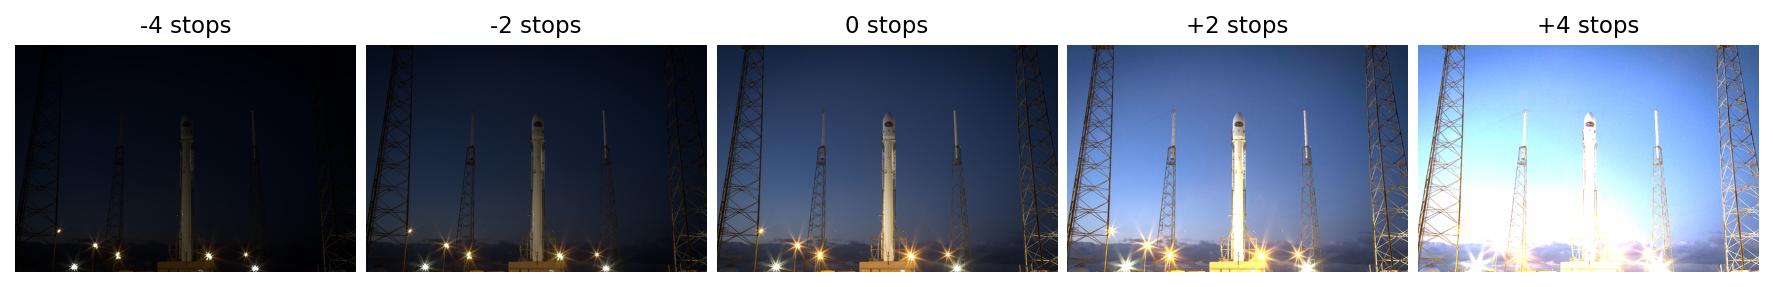
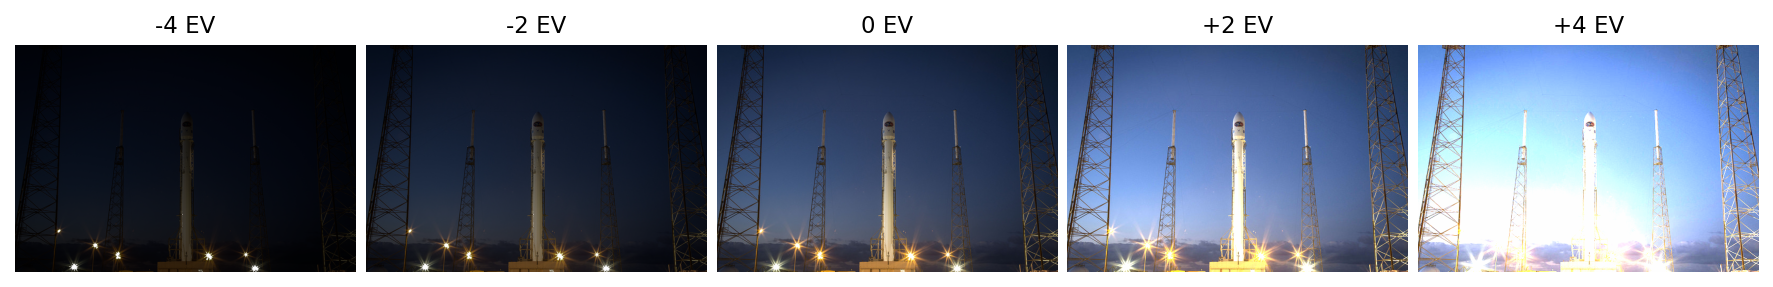
Lesson 6: fix stops terminology, the gamut sentence and Czech wording
Stops are expoziční stupně (EV), not clonová čísla. The per-channel curve
sends blue to cyan, as the gamut diagram shows. OKLab is declined, other
lessons are named by topic, the key is reset after the experiment, and the
reduce diagram counts threads in correct Czech.

diff --git a/build/lesson_06_notebook.py b/build/lesson_06_notebook.py
@@ -137,7 +137,7 @@ BRIGHT_X = f"""\
 uniform float sigma: hint_range(1, 16) = {SIGMA}
 
 
-# Lesson 3's first pass, without the sRGB conversions: the layer is linear light already.
+# The convolution lesson's first pass, without the sRGB conversions: the layer is linear light already.
 def pixel(ivec2 at) -> vec4:
     int r = int(ceil(3.0 * sigma))
     vec3 total = vec3(0.0)
@@ -302,7 +302,7 @@ def gaussian_1d(sigma):
 
 
 def blur(a, sigma):
-    """a, (h, w, c), blurred by a Gaussian of sigma pixels, rows then columns, edges clamped (lesson 3)."""
+    """a, (h, w, c), blurred by a Gaussian of sigma pixels, rows then columns, edges clamped (the convolution lesson)."""
     k = gaussian_1d(sigma)
     r = len(k) // 2
     h, w = a.shape[:2]
@@ -384,7 +384,7 @@ def answer(snippet, lang="python"):
 md(r"""
 # Lekce 6 (bonus): HDR, záře a tone mapping
 
-Fotka ze skutečného světa má světla, která jsou stokrát jasnější než obloha, a obrazovka umí ukázat jen rozsah od 0 do 1. Hry a fotoaparáty proto počítají ve vysokém dynamickém rozsahu (*high dynamic range*, HDR) a teprve na konci světlo stlačí do obrazovky. V této lekci to postavíte celé: expozici, tónovou křivku, automatickou expozici z průměru celého obrázku spočítaného na GPU, záři kolem světel (*bloom*) a stlačení sytých barev v OKLab.
+Fotka ze skutečného světa má světla, která jsou stokrát jasnější než obloha, a obrazovka umí ukázat jen rozsah od 0 do 1. Hry a fotoaparáty proto počítají ve vysokém dynamickém rozsahu (*high dynamic range*, HDR) a teprve na konci světlo stlačí do obrazovky. V této lekci to postavíte celé: expozici, tónovou křivku, automatickou expozici z průměru celého obrázku spočítaného na GPU, záři kolem světel (*bloom*) a stlačení sytých barev v OKLabu.
 
 Lekce je bonusová a na samostudium. Spusťte buňku. Otevře v Sáře dokument s plátnem 640 × 427 a do vrstvy `HDR` zapíše fotku rakety na rampě v lineárním světle, s lampami až stokrát jasnějšími než bílá.
 """)
@@ -422,9 +422,8 @@ Funkce z úvodní lekce shrnuje její příloha. Sloupec Sekce říká, kde se f
 
 | Volání | Co dělá | Sekce |
 |---|---|---|
-| `doc.new_layer(jméno, pole)` | nová vrstva s danými pixely | 0 |
 | `doc.door.verdict({"reduce": ...})` | součet, průměr, minimum a maximum vrstvy, spočítané na GPU | 2 |
-| `np.load("....npz")["rgb"]` | pole uložené v souboru NumPy | 0 |
+| `np.load("....npz")["rgb"]` | pole uložené v souboru NumPy | úvod |
 """)
 
 md(r"""
@@ -439,13 +438,13 @@ code(GOAL, hidden=True)
 md(r"""
 ## 1. Expozice a tónová křivka
 
-Fotoaparát světlo nejdřív vynásobí **expozicí**, a ta se měří v **clonových číslech** (*stops*): o jedno víc je dvakrát víc světla. Pak ho musí dostat do rozsahu obrazovky. Nejjednodušší je oříznout všechno nad 1. Posuňte `stops` v kernelu níže a podívejte se, co ořezání dělá s lampami a co s oblohou.
+Fotoaparát světlo nejdřív vynásobí **expozicí**, a ta se měří v **expozičních stupních** (EV, *stops*): o jeden stupeň víc je dvakrát víc světla. Pak ho musí dostat do rozsahu obrazovky. Nejjednodušší je oříznout všechno nad 1. Posuňte `stops` v kernelu níže a podívejte se, co ořezání dělá s lampami a co s oblohou.
 
-@img(exposure_strip.png, 900, Fotka rakety při expozici od minus čtyř do plus čtyř clonových čísel, oříznutá na rozsah obrazovky)
+@img(exposure_strip.png, 900, Fotka rakety při expozici od minus čtyř do plus čtyř expozičních stupňů, oříznutá na rozsah obrazovky)
 
-Při žádné expozici není vidět obloha a lampy zároveň. Rozsah fotky, od nejtmavšího pixelu po nejjasnější, je asi dvacet clonových čísel, obrazovka jich ukáže asi osm.
+Při žádné expozici není vidět obloha a lampy zároveň. Rozsah fotky, od nejtmavšího pixelu po nejjasnější, je asi dvacet expozičních stupňů, obrazovka jich ukáže asi osm.
 
-@img(dynamic_range.png, 900, Histogram logaritmu jasu pixelů fotky, asi dvacet clonových čísel, s vyznačeným rozsahem, který ukáže obrazovka)
+@img(dynamic_range.png, 900, Histogram logaritmu jasu pixelů fotky, asi dvacet expozičních stupňů, s vyznačeným rozsahem, který ukáže obrazovka)
 """)
 
 code(EXPOSURE)
@@ -481,7 +480,7 @@ code(TONE, solve=[(TONE_STUB, SOLUTION_TONE)])
 md(r"""
 ### ✅ Kontrola
 
-Pomocné funkce obsahují převody z lekce o barevných prostorech, jas `luminance` a rozmazání `blur` z lekce 3. Kontrola porovná vrstvu `Tone` s křivkou ACES v NumPy, s `stops` na 0.
+Pomocné funkce obsahují převody z lekce o barevných prostorech, jas `luminance` a rozmazání `blur` z lekce o konvoluci. Kontrola porovná vrstvu `Tone` s křivkou ACES v NumPy, s `stops` na 0.
 """)
 
 code(HELPERS_NP)
@@ -507,17 +506,17 @@ Tmavá scéna potřebuje víc světla než slunečná, jinak je celá černá, a
 md(r"""
 ## 2. Automatická expozice a redukce na GPU
 
-Expozice má posunout „typický“ jas scény na středně šedou, **klíč** (*key*) kolem 0.18. Typický jas ale není aritmetický průměr: jedna lampa sto jasů posune průměr víc než celá obloha. Reinhard proto bere průměr **logaritmů**, tedy geometrický průměr:
+Expozice má posunout „typický“ jas scény na středně šedou, **klíč** (*key*) kolem 0.18. Typický jas ale není aritmetický průměr: jedna lampa se stonásobným jasem posune průměr víc než celá obloha. Reinhard proto bere průměr **logaritmů**, tedy geometrický průměr:
 
 $$\bar L = \exp\Big(\frac{1}{n} \sum \log(\delta + Y)\Big), \qquad \text{expozice} = \frac{\text{klíč}}{\bar L}$$
 
-Malé $\delta$ zabrání logaritmu nuly. Na logaritmické ose má každé clonové číslo stejnou váhu.
+Malé $\delta$ zabrání logaritmu nuly. Na logaritmické ose má každý expoziční stupeň stejnou váhu.
 
 Průměr celého obrázku je **redukce**: z milionu čísel jedno. Jedno vlákno by sčítalo pixel po pixelu. GPU sčítá ve stromu: každé vlákno sečte dvojici, pak dvojice součtů, a po $\log_2 n$ krocích zbude jedno číslo. Sára to umí jako krok `reduce`, který vrátí součet, průměr, minimum a maximum každého kanálu vrstvy.
 
 @img(reduce.png, 860, Strom sčítání šestnácti čísel ve čtyřech krocích, v každém kroku polovina vláken sečte dvojici)
 
-Redukce umí jen čísla, která se sčítají v libovolném pořadí. Histogram by potřeboval, aby vlákna zapisovala do společných přihrádek (*atomics*), a ten buňka zatím nemá.
+Redukce umí jen čísla, která se sčítají v libovolném pořadí. Histogram by potřeboval, aby vlákna zapisovala do společných přihrádek (*atomics*), a ty buňka `%%gmacs` zatím nenabízí.
 
 ### 🎯 Úkol 2: logaritmus jasu
 
@@ -551,7 +550,7 @@ print(f"mean log luminance {{mean_log:.4f}}, exposure {{exposure:.3f}}, {{np.log
 md(r"""
 ### ✅ Kontrola
 
-Průměr spočítaný na GPU porovnáme s NumPy. Vrstva drží čísla s polovinou přesnosti (*half float*), takže se shodují asi na tři místa.
+Průměr spočítaný na GPU porovnáme s NumPy. Vrstva drží čísla v poloviční přesnosti (*half float*), takže se shodují asi na tři místa.
 """)
 
 code("""
@@ -568,11 +567,11 @@ code(AUTO)
 
 md(r"""
 > **❓ Otázka**
-> Zkuste klíč 0.18, 0.12 a 0.05 a buňky spusťte znovu. Proč by hra měnila expozici postupně, snímek po snímku, a ne hned?
+> Zkuste klíč 0.18, 0.12 a 0.05 a buňky spusťte znovu, a nakonec klíč vraťte na 0.12. Proč by hra měnila expozici postupně, snímek po snímku, a ne hned?
 
 <details><summary>🔑 Odpověď</summary>
 
-Klíč říká, jak světlá má scéna vypadat: 0.18 je den, 0.05 noc. Kdyby se expozice měnila okamžitě, obraz by při každém záblesku nebo otočení kamery ke světlu blikal. Hry proto expozici k cíli posouvají pomalu, jako oko, které si na tmu zvyká několik sekund. Tomu se říká přizpůsobení oka (*eye adaptation*).
+Klíč říká, jak světlá má scéna vypadat: 0.18 je den, 0.05 noc. Kdyby se expozice měnila okamžitě, obraz by při každém záblesku nebo otočení kamery ke světlu blikal. Hry proto expozici k cíli posouvají pomalu, jako oko, které si na tmu zvyká postupně, zornice za pár sekund, sítnice i desítky minut. Tomu se říká přizpůsobení oka (*eye adaptation*).
 </details>
 """)
 
@@ -580,11 +579,11 @@ Klíč říká, jak světlá má scéna vypadat: 0.18 je den, 0.05 noc. Kdyby se
 md(r"""
 ## 3. Záře
 
-Silné světlo se v objektivu i v oku rozptýlí a kolem lampy vznikne záře. Hry ji napodobí třemi průchody: vyberou jen světlo nad prahem, rozmažou ho a přičtou k obrázku **před** tónovou křivkou, dokud je to ještě světlo, ne barva obrazovky.
+Silné světlo se v objektivu i v oku rozptýlí a kolem lampy vznikne záře. Hry ji napodobí třemi kroky: vyberou jen světlo nad prahem, rozmažou ho a přičtou k obrázku **před** tónovou křivkou, dokud je to ještě světlo, ne barva obrazovky.
 
 @img(bloom_steps.png, 900, Obrázek s tónovou křivkou, světlo nad prahem, jeho rozmazání a obrázek se září)
 
-Výběr světla a dva průchody rozmazání z lekce 3 jsou hotové. Rozmazání je bez převodů ze sRGB, protože vrstva drží lineární světlo.
+Výběr světla a dva průchody rozmazání z lekce o konvoluci jsou hotové. Rozmazání je bez převodů ze sRGB, protože vrstva drží lineární světlo.
 """)
 
 code(BRIGHT)
@@ -627,19 +626,19 @@ Po tónové křivce jsou lampy i bílá raketa stejně bílé, 1, a práh by je 
 
 # --- 4. Gamut ---------------------------------------------------------------------
 md(r"""
-## 4. Syté barvy v OKLab
+## 4. Syté barvy v OKLabu
 
-Křivka po složkách stlačí každý kanál zvlášť. Sytá oranžová lampa má červenou složku mnohem větší než modrou, a křivka červenou stlačí víc. Barva se proto s rostoucím jasem posouvá ke žluté a nakonec k bílé, a modré světlo k fialové. Hráči tomu říkají „notorious six“: při velkém jasu zbude jen šest barev, tři základní a tři doplňkové.
+Křivka po složkách stlačí každý kanál zvlášť. Sytá oranžová lampa má červenou složku mnohem větší než modrou, a křivka červenou stlačí víc. Barva se proto s rostoucím jasem posouvá ke žluté, modrá k azurové, a kde je třetí složka nulová, tam už zůstane. Vývojáři a koloristé tomu říkají „notorious six“: při velkém jasu zbude jen šest barev, tři základní a tři doplňkové.
 
-Druhá možnost je stlačit jen **jas** a barvu vynásobit stejným poměrem. Odstín zůstane, ale jasná sytá barva skončí mimo krychli 0 až 1, kterou obrazovka umí (mimo **gamut**). Ořezání kanálů odstín zase posune. Správně je zachovat v OKLab světlost a odstín a ubrat **sytost** (*chroma*), dokud se barva do krychle nevejde.
+Druhá možnost je stlačit jen **jas** a barvu vynásobit stejným poměrem. Odstín zůstane, ale jasná sytá barva skončí mimo krychli 0 až 1, kterou obrazovka umí (mimo **gamut**). Ořezání kanálů odstín zase posune. Správně je zachovat v OKLabu světlost a odstín a ubrat **sytost** (*chroma*), dokud se barva do krychle nevejde.
 
-@img(gamut.png, 900, Pruh sytých barev s rostoucí expozicí ve třech podáních: křivka po složkách, jas s ořezáním a jas se stlačením sytosti v OKLab)
+@img(gamut.png, 900, Pruh sytých barev s rostoucí expozicí ve třech podáních: křivka po složkách, jas s ořezáním a jas se stlačením sytosti v OKLabu)
 
 Největší sytost, která se vejde, se najde **půlením intervalu** (*bisection*): podíl sytosti od 0 do 1, a v každém kroku se interval zkrátí na polovinu, podle toho, zda je barva uvnitř. Po 16 krocích je podíl přesný na $2^{-16}$.
 
 ### 🎯 Úkol 4: stlačení do gamutu
 
-Doplňte `fit`. Barvu, která je uvnitř, vraťte beze změny. Jinak ji převeďte do OKLab, světlost ořízněte na 1 a půlením najděte největší podíl sytosti `ab`, při kterém je barva uvnitř. Funkce `inside` je hotová. Nedokončená funkce ořezává, jako volba `Clip`.
+Doplňte `fit`. Barvu, která je uvnitř, vraťte beze změny. Jinak ji převeďte do OKLabu, světlost ořízněte na 1 a půlením najděte největší podíl sytosti `ab`, při kterém je barva uvnitř. Funkce `inside` je hotová. Nedokončená funkce ořezává, jako volba `Clip`.
 
 <details><summary>💡 Nápověda</summary>
 
@@ -688,7 +687,7 @@ Přepněte `mode` a porovnejte lampy a oranžový lem u rampy. Rozdíl je jemný
 
 <details><summary>🔑 Odpověď</summary>
 
-Světlost je to, co tónová křivka nastavila, a změna by udělala z jasné lampy tmavší. Odstín je to, co oko pozná nejdřív, a jeho změna je vidět jako jiná barva. Sytost se mění nejméně nápadně: velmi jasná barva i ve skutečnosti vypadá bledší, protože oko se jí přizpůsobí. Proto jasná světla v obrázku přecházejí do bílé, a s OKLab plynule a bez změny odstínu.
+Světlost je to, co tónová křivka nastavila, a změna by udělala z jasné lampy tmavší. Odstín je to, co oko pozná nejdřív, a jeho změna je vidět jako jiná barva. Sytost se mění nejméně nápadně: velmi jasná barva i ve skutečnosti vypadá bledší, protože oko se jí přizpůsobí. Proto jasná světla v obrázku přecházejí do bílé, a s OKLabem plynule a bez změny odstínu.
 </details>
 """)
 
@@ -770,26 +769,26 @@ Vložte filtr do `pga_filter/effect.py` s `TITLE = "Tonemapper"`. Tonemapper pot
 md(r"""
 ## Shrnutí
 
-- Světlo ve scéně má rozsah i dvacet clonových čísel, obrazovka asi osm. Výpočet probíhá v lineárním světle bez omezení a do obrazovky se světlo stlačí až na konci.
+- Světlo ve scéně má rozsah i dvacet expozičních stupňů, obrazovka asi osm. Výpočet probíhá v lineárním světle bez omezení a do obrazovky se světlo stlačí až na konci.
 - Tónová křivka stlačí jasné plynule. Reinhard je nejjednodušší, ACES má tvar S a filmový vzhled.
 - Automatická expozice posune geometrický průměr jasu na klíč. Průměr celého obrázku je redukce, kterou GPU sčítá ve stromu.
-- Hodnota z Pythonu se do kernelu dostane jako parametr, i dosazením do prvního řádku buňky.
+- Hodnota z Pythonu se do kernelu dostane jako parametr, dosazením `{proměnná}` do prvního řádku buňky.
 - Záře je světlo nad prahem, rozmazané a přičtené před tónovou křivkou.
-- Křivka po složkách posouvá odstín jasných barev. Stlačení jasu a pak sytosti v OKLab odstín zachová.
+- Křivka po složkách posouvá odstín jasných barev. Stlačení jasu a pak sytosti v OKLabu odstín zachová.
 
 ### Co jsme vynechali
 
 - **Histogram a percentily.** Expozice podle histogramu ignoruje nejtmavší a nejjasnější procenta pixelů. Histogram na GPU potřebuje atomické zápisy do přihrádek.
 - **Lokální tone mapping.** Expozice, která se mění místo od místa, jako „HDR fotky“ z mobilu. Bez opatrnosti dělá kolem hran svatozáře.
 - **Pyramida záře.** Hry zmenšují obrázek několikrát na polovinu, rozmazávají malé verze a skládají je zpět. Je to rychlejší než velké jádro a záře má dlouhý měkký ocas.
-- **Moderní křivky.** AgX a Khronos PBR Neutral řeší posun odstínu přímo v křivce. Blender a Godot je mají jako volbu.
-- **HDR obrazovky.** Obrazovka s jasem přes 1000 nitů ukáže víc než 1, a tonemapper pak stlačuje jen to, co se nevejde ani jí.
+- **Moderní křivky.** AgX a Khronos PBR Neutral řeší posun odstínu přímo v křivce. Blender má obě, Godot zatím jen AgX.
+- **HDR obrazovky.** Obrazovka s jasem přes 1000 nitů ukáže víc než 1, a tonemapper pak stlačuje jen to, co se nevejde ani do ní.
 
 ### Bonusové úkoly
 
 1. **Postupná adaptace.** V NumPy spočítejte expozici pro sérii snímků se změnou jasu a posouvejte ji k cíli o pár procent na snímek.
 2. **Histogram.** Spočítejte v NumPy histogram logaritmu jasu a expozici podle mediánu místo průměru. Jak se liší?
-3. **Barevná záře.** Obarvěte záři podle posuvníku `source_color`, nebo ji zesilte jen v jednom kanálu, jako u starých objektivů.
+3. **Barevná záře.** Obarvěte záři barvou z výběru `source_color`, převedenou do lineárního světla, nebo ji zesilte jen v jednom kanálu, jako u starých objektivů.
 4. **AgX.** Najděte popis křivky AgX a napište ji jako čtvrtou volbu `curve`.
 """)
 

diff --git a/build/lesson_06_diagrams.py b/build/lesson_06_diagrams.py
@@ -69,7 +69,7 @@ def exposure_strip(hdr):
     fig, axes = plt.subplots(1, 5, figsize=(15, 2.3), gridspec_kw={"wspace": 0.03})
     for ax, stops in zip(axes, (-4, -2, 0, 2, 4)):
         ax.imshow(linear_to_srgb(np.clip(hdr * 2.0 ** stops, 0, 1)))
-        ax.set_title(f"{stops:+d} stops" if stops else "0 stops", fontsize=11)
+        ax.set_title(f"{stops:+d} EV" if stops else "0 EV", fontsize=11)
         bare(ax)
     save(fig, "exposure_strip.png")
 
@@ -83,11 +83,11 @@ def dynamic_range(hdr):
     ax.set_yscale("log")
     ax.axvspan(-8, 0, color=ORANGE, alpha=0.12)
     ax.set_ylim(0.6, 2e6)
-    ax.text(-4, 3e5, "obrazovka, 8 stops", ha="center", color=ORANGE, fontsize=11)
+    ax.text(-4, 3e5, "obrazovka, 8 EV", ha="center", color=ORANGE, fontsize=11)
     mean = np.log2(np.exp(np.log(1e-4 + y).mean()))
     ax.axvline(mean, color="black", lw=1.5, ls="--")
     ax.text(mean + 0.2, 2.5e4, "geometrický průměr", ha="left", fontsize=10)
-    ax.set_xlabel("$\\log_2$ jasu (clonová čísla, 0 je bílá)", fontsize=11)
+    ax.set_xlabel("$\\log_2$ jasu (EV, 0 je bílá)", fontsize=11)
     ax.set_ylabel("počet pixelů", fontsize=11)
     plain(ax)
     save(fig, "dynamic_range.png")
@@ -130,7 +130,7 @@ def reduce_tree():
                     cx = child * width / 2 + width / 4
                     ax.add_patch(FancyArrowPatch((cx, y + 1.3 - 0.4), (x, y + 0.4), arrowstyle="-|>",
                                                  mutation_scale=8, color=BLUE, lw=0.8))
-        label = "16 pixelů" if depth == 0 else f"krok {depth}: {len(v)} vláken"
+        label = "16 pixelů" if depth == 0 else f"krok {depth}: {len(v)} " + ("vlákno" if len(v) == 1 else "vlákna" if len(v) < 5 else "vláken")
         ax.text(16.6, -depth * 1.3, label, va="center", fontsize=10, color=GREY)
     ax.set_xlim(-0.3, 19.5)
     ax.set_ylim(-len(levels) * 1.3 + 0.6, 0.7)
@@ -181,7 +181,7 @@ def gamut():
     y = luminance(c)
     scaled = c * (aces(y) / np.maximum(y, 1e-4))[..., None]
     rows = [(aces(c), "křivka po složkách"), (np.clip(scaled, 0, 1), "jas, pak ořezání"),
-            (fit_numpy(scaled), "jas, pak sytost v OKLab")]
+            (fit_numpy(scaled), "jas, pak sytost v OKLabu")]
     fig, axes = plt.subplots(3, 1, figsize=(10, 4.6), gridspec_kw={"hspace": 0.75})
     for ax, (picture, title) in zip(axes, rows):
         ax.imshow(linear_to_srgb(np.repeat(picture, 8, axis=0)), aspect="auto", extent=(-3, 6, 6, 0))
@@ -189,7 +189,7 @@ def gamut():
         ax.set_yticks([])
         plain(ax)
         ax.spines["left"].set_visible(False)
-    axes[-1].set_xlabel("expozice (clonová čísla)", fontsize=11)
+    axes[-1].set_xlabel("expozice (EV)", fontsize=11)
     save(fig, "gamut.png")
 
 
